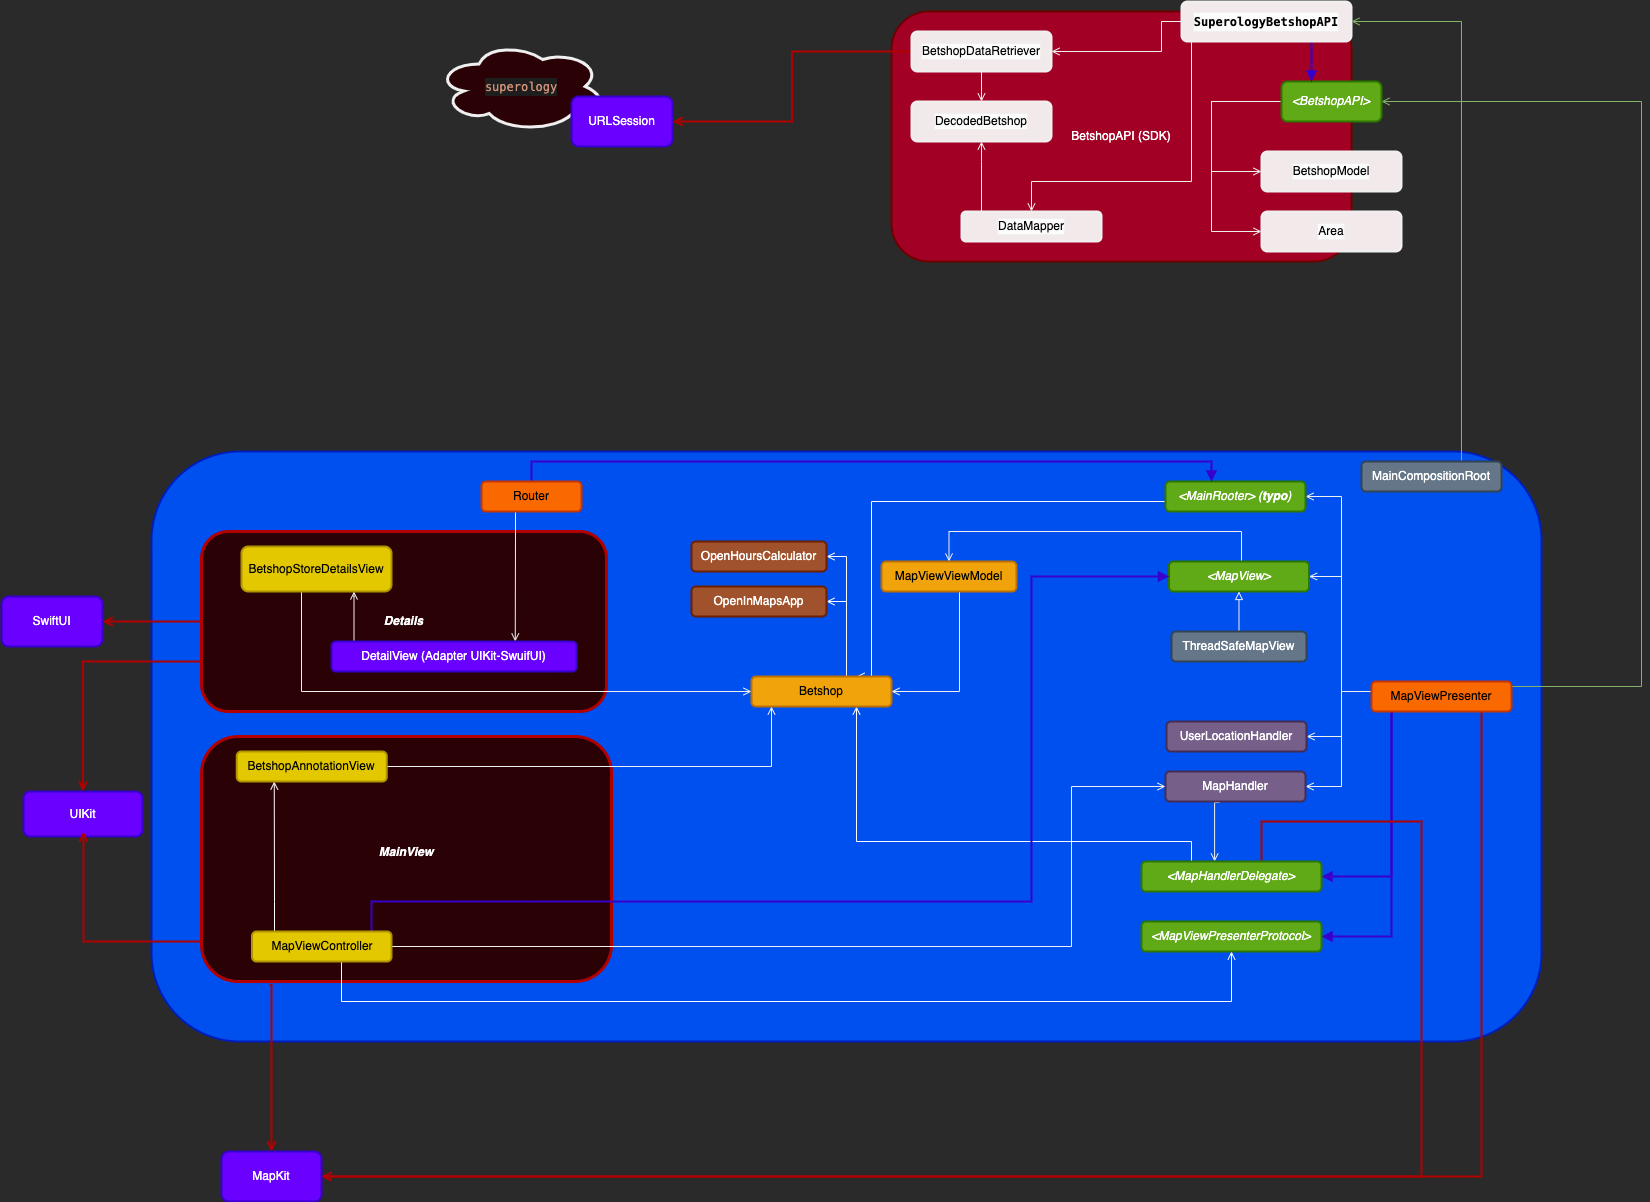
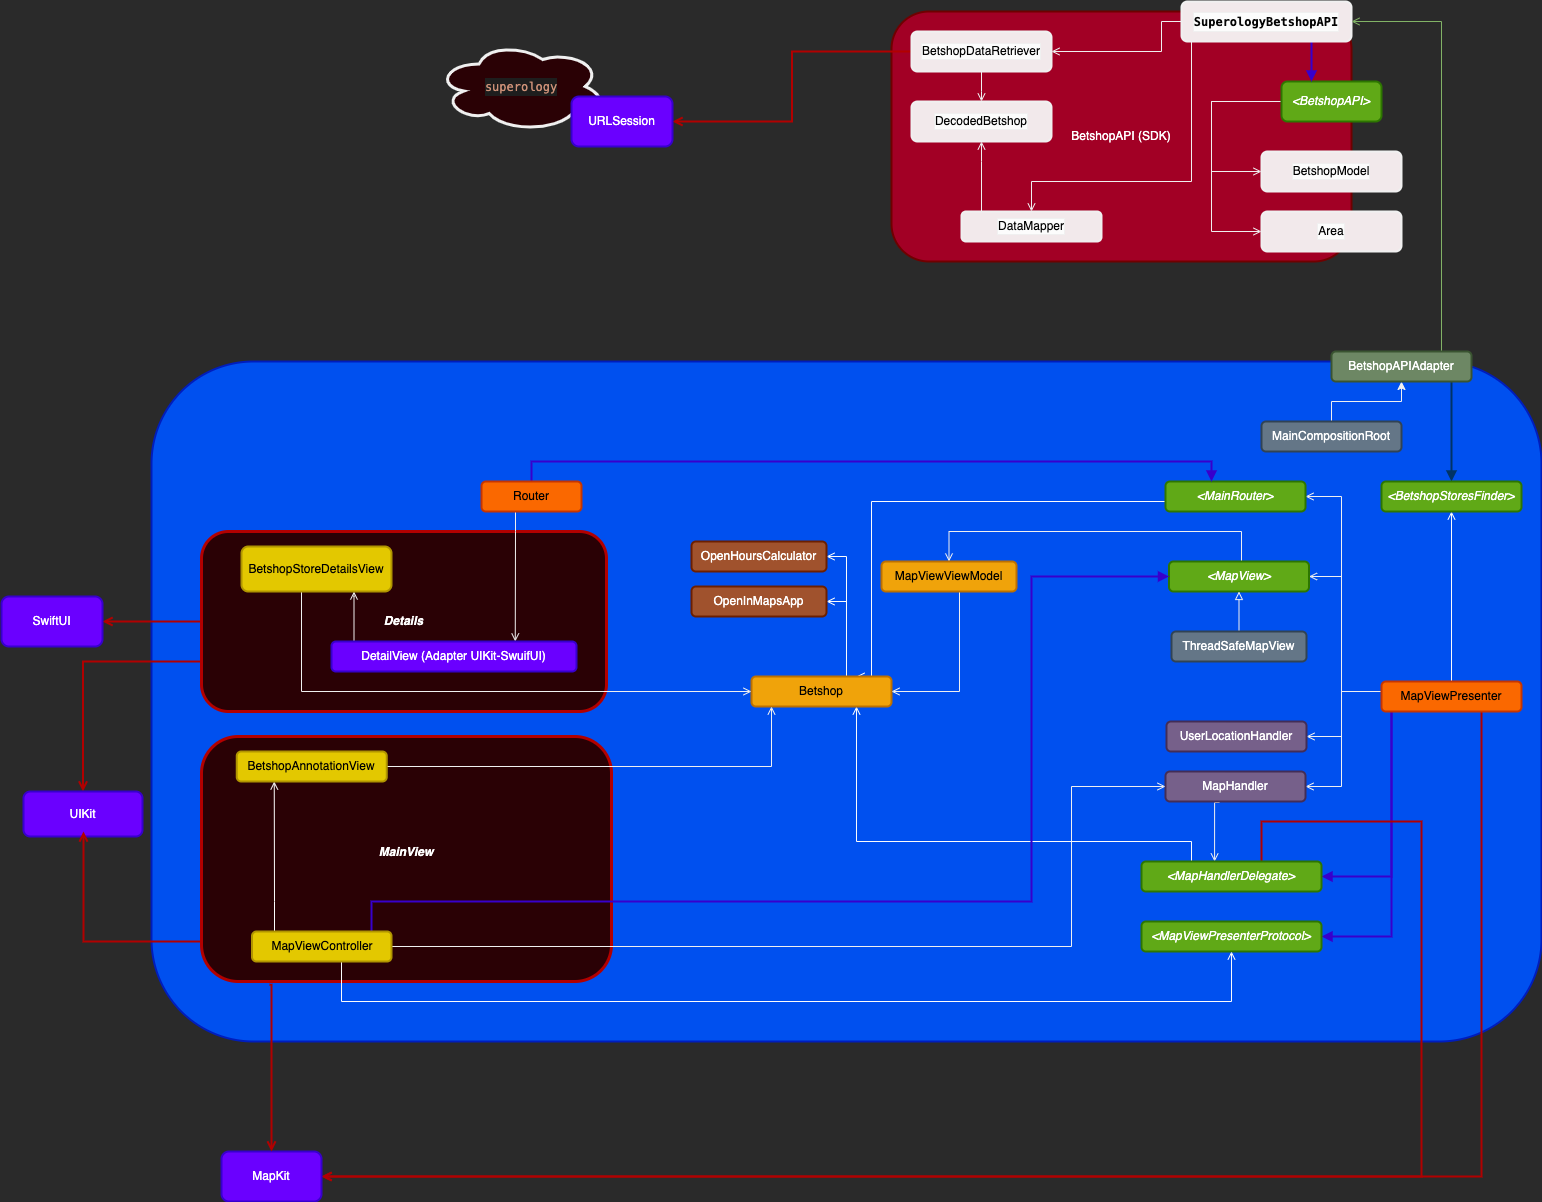
Update documentation+diagrams

diff --git a/README.md b/README.md
@@ -23,3 +23,9 @@ This application helps you locate betshops in Germany using an integrated map. S
 For details on a betshop, tap on it and see the opening hour or closing, as well as other information related to it.
 
 When clicking on the "Route" button, you are transferred into your default navigation application with the desired Betshop selected as for you to be able to navigate to it by means of your preferred app for the matter.
+
+---------
+
+<p align="center">
+<img src="Documentation/diagrams/2.- BetshopFinder (Full - No Improvements).png">
+</p>
